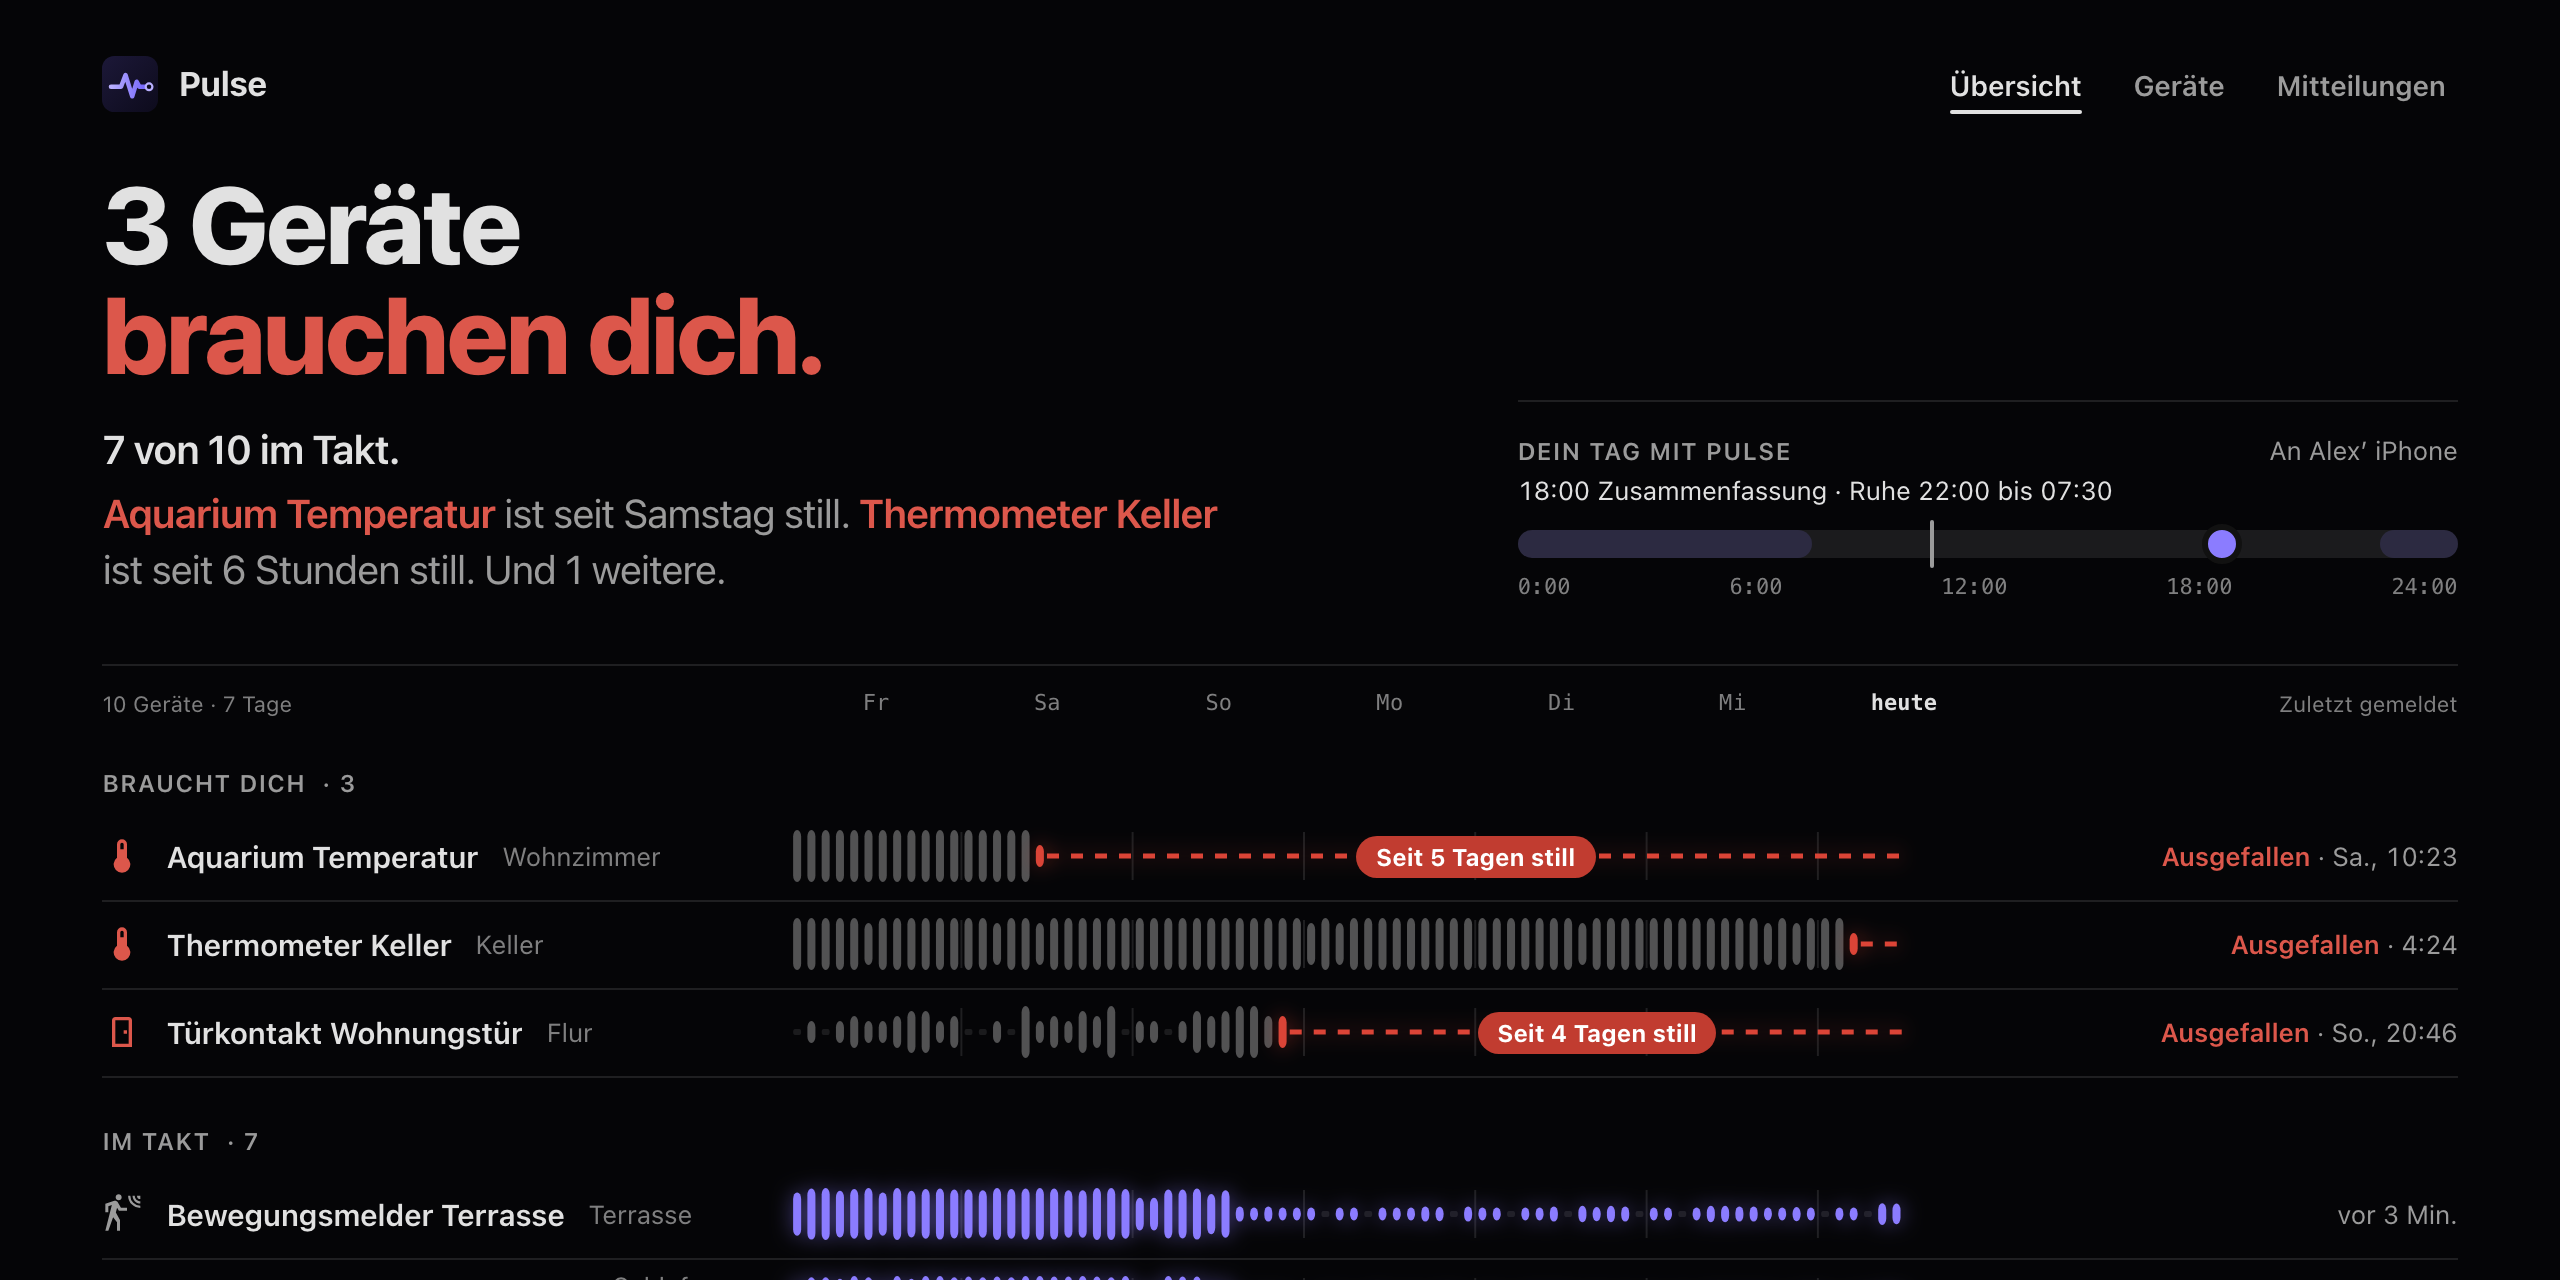
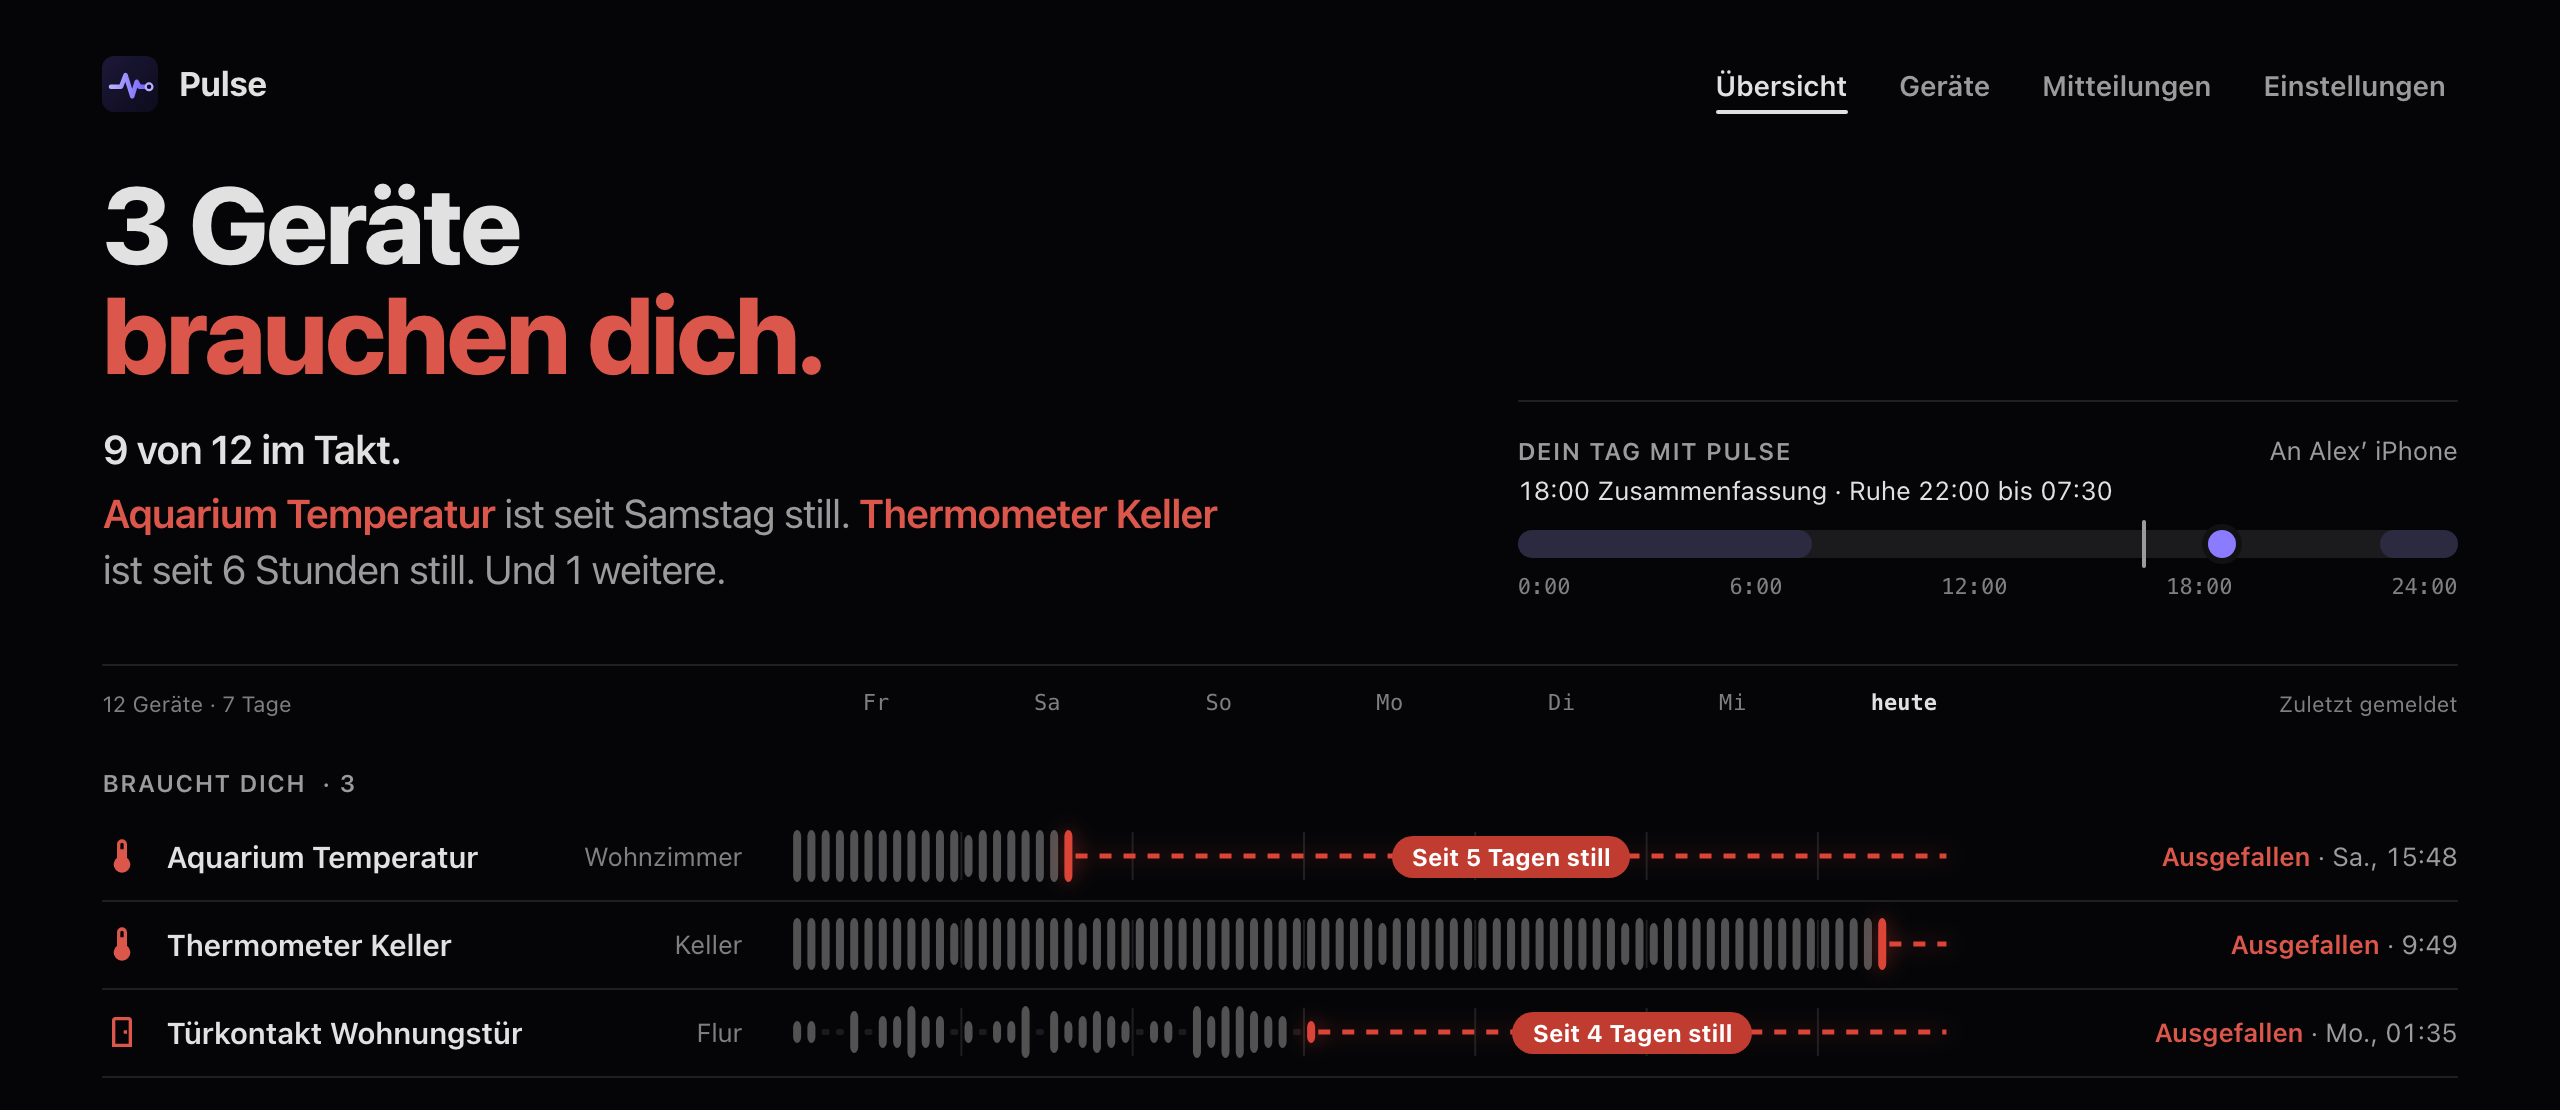
New README screenshots for 26.11
Overview, device sheet and phone notification settings, light and dark,
in English and German, taken at 2x from the test instance with demo data.
The overview now ends after the "needs you" list instead of cutting a row.
The device sheet shows "Remind later" with tomorrow, a week and a month;
the phone shows the choice how long an important device may be
unreachable. README: overview in full width under the status table,
sheet and phone as one row of equal height under Notifications.
Project page: new overview size and alt text.

Claude-Session: https://claude.ai/code/session_01TLmTtYeQmDLn8ETUmm61MJ

diff --git a/docs/index.html b/docs/index.html
@@ -317,11 +317,11 @@ footer .fine { flex-basis: 100%; }
       <div class="shot lg">
         <picture class="en">
           <source media="(prefers-color-scheme: dark)" srcset="images/overview-dark.png">
-          <img src="images/overview-light.png" width="2560" height="1280" fetchpriority="high" alt="The Pulse overview: a headline saying 3 devices need you, 7 of 10 in rhythm below it, and one rhythm strip per device. A silent aquarium thermometer breaks off into a red dashed line.">
+          <img src="images/overview-light.png" width="2560" height="1110" fetchpriority="high" alt="The Pulse overview: a headline saying 3 devices need you, 9 of 12 in rhythm below it, and one rhythm strip per failed device. A silent aquarium thermometer breaks off into a red dashed line.">
         </picture>
         <picture class="de">
           <source media="(prefers-color-scheme: dark)" srcset="images/de/overview-dark.png">
-          <img src="images/de/overview-light.png" width="2560" height="1280" fetchpriority="high" alt="The Pulse overview in German: a headline saying 3 devices need you, 7 of 10 in rhythm below it, and one rhythm strip per device.">
+          <img src="images/de/overview-light.png" width="2560" height="1110" fetchpriority="high" alt="The Pulse overview in German: a headline saying 3 devices need you, 9 of 12 in rhythm below it, and one rhythm strip per failed device.">
         </picture>
       </div>
     </div>

diff --git a/README.md b/README.md
@@ -31,8 +31,10 @@ Pulse only listens. It never asks a device anything, so it costs no battery and 
 Every status comes with a reason in plain words: *Silent for 5 days. Usually reports every 30 minutes.* Pulse needs about seven reports to know a rhythm; until then a device is *Learning*. Failed devices also show up under **Settings > Repairs** and disappear on their own when they report again.
 
 <p align="center">
-<img src="docs/images/detail.png" width="46%" alt="Device detail: a headline reading Silent for 5 days, the buttons Remind tomorrow and Battery replaced, a heartbeat calendar with one row per day where the silent days are red dashed lines, and the battery with its forecast status." />
-<img src="docs/images/iphone-dark.png" width="32%" alt="Pulse on an iPhone in dark mode: the headline, the rhythm strips glowing in the dark, failed devices first." />
+<picture>
+  <source media="(prefers-color-scheme: dark)" srcset="docs/images/overview-dark.png" />
+  <img src="docs/images/overview-light.png" alt="The Pulse overview: the headline 3 devices need you, 9 of 12 in rhythm, the day with the summary at 18:00 and quiet hours, and the three failed devices with their rhythm strips over 7 days, where the silent stretches are red dashed lines." />
+</picture>
 </p>
 
 **New in 26.11:** remind later in a week or a month, and you choose how fast an unreachable important device is reported. Every change is in the [changelog](CHANGELOG.md).
@@ -82,6 +84,13 @@ Through the Companion app (`notify.mobile_app_*`). New phones are added automati
 - **One message for an outage.** Three or more devices silent in the same minute is a hub or bridge, not the batteries. The same for a cloud outage.
 
 Under **Notifications > Texts** you can rewrite title and text of each kind, with a live preview and placeholders `{name}`, `{area}`, `{reason}`, `{model}`, `{manufacturer}`, `{integration}`.
+
+<p align="center">
+<picture>
+  <source media="(prefers-color-scheme: dark)" srcset="docs/images/readme-screens-dark.webp" />
+  <img src="docs/images/readme-screens-light.webp" alt="Left, the device sheet of a silent aquarium thermometer: Silent for 5 days, the menu Remind later open with tomorrow, in a week and in a month, and the heartbeat calendar with red dashed days. Right, the notification settings on a phone: times for the summary and quiet hours, and under Special cases the choice how long an important device may be unreachable, 2, 5, 10 or 20 minutes." />
+</picture>
+</p>
 
 <a id="zigbee2mqtt"></a>
 ## Zigbee2MQTT
